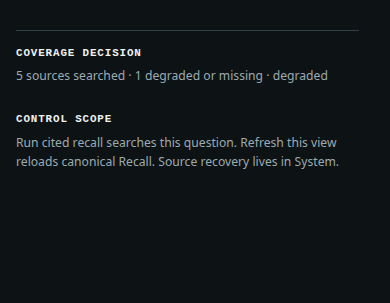
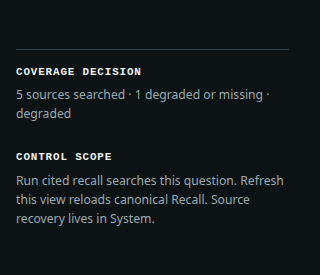
fix: close independent review blockers

diff --git a/scripts/verify_candidate.py b/scripts/verify_candidate.py
@@ -1,30 +1,147 @@
 #!/usr/bin/env python3
 from __future__ import annotations
 
+import hashlib
 import json
+import os
 from pathlib import Path
 import re
+import stat
+import struct
 import subprocess
 import sys
 
 ROOT = Path(__file__).resolve().parents[1]
-errors = []
+errors: list[str] = []
+checks: dict[str, object] = {}
 version = "0.2.0"
-if version not in (ROOT / "pyproject.toml").read_text():
-    errors.append("version mismatch")
-for required in ["README.md", "SECURITY.md", "SOURCE_PROVENANCE.json", "docs/index.md", "src/mnemoir_provenance/resources/0001_initial_schema.sql"]:
+
+
+def sha256(path: Path) -> str:
+    return hashlib.sha256(path.read_bytes()).hexdigest()
+
+
+def png_dimensions(path: Path) -> tuple[int, int] | None:
+    data = path.read_bytes()[:24]
+    if len(data) != 24 or data[:8] != b"\x89PNG\r\n\x1a\n" or data[12:16] != b"IHDR":
+        return None
+    return struct.unpack(">II", data[16:24])
+
+
+if version not in (ROOT / "pyproject.toml").read_text(encoding="utf-8"):
+    errors.append("version-mismatch")
+
+for required in [
+    "README.md",
+    "SECURITY.md",
+    "SOURCE_PROVENANCE.json",
+    "PUBLIC_FILE_MANIFEST.json",
+    "docs/index.md",
+    "src/mnemoir_provenance/resources/0001_initial_schema.sql",
+]:
     if not (ROOT / required).is_file():
         errors.append(f"missing:{required}")
+
+manifest_path = ROOT / "PUBLIC_FILE_MANIFEST.json"
+provenance_path = ROOT / "SOURCE_PROVENANCE.json"
+expected: dict[str, dict[str, object]] = {}
+if manifest_path.is_file():
+    try:
+        rows = json.loads(manifest_path.read_text(encoding="utf-8"))["files"]
+        for row in rows:
+            rel = str(row["path"])
+            if rel in expected:
+                errors.append(f"manifest-duplicate:{rel}")
+            expected[rel] = row
+        checks["manifest_entries"] = len(rows)
+    except (KeyError, TypeError, ValueError, json.JSONDecodeError) as exc:
+        errors.append(f"manifest-invalid:{exc}")
+
+for rel, row in expected.items():
+    path = ROOT / rel
+    if path.is_symlink() or not path.is_file():
+        errors.append(f"manifest-file-invalid:{rel}")
+        continue
+    if path.stat().st_size != int(row["size"]):
+        errors.append(f"manifest-size:{rel}")
+    if sha256(path) != str(row["sha256"]):
+        errors.append(f"manifest-sha256:{rel}")
+    actual_mode = f"{stat.S_IMODE(path.stat().st_mode):04o}"
+    if actual_mode != str(row["mode"]):
+        errors.append(f"manifest-mode:{rel}:{actual_mode}")
+
+allowed_envelopes = {"PUBLIC_FILE_MANIFEST.json", "SOURCE_PROVENANCE.json"}
+actual = {
+    path.relative_to(ROOT).as_posix()
+    for path in ROOT.rglob("*")
+    if ".git" not in path.relative_to(ROOT).parts and (path.is_file() or path.is_symlink())
+}
+expected_output = set(expected) | allowed_envelopes
+for rel in sorted(actual - expected_output):
+    errors.append(f"unexpected-file:{rel}")
+for rel in sorted(expected_output - actual):
+    errors.append(f"output-missing:{rel}")
+checks["output_files"] = len(actual)
+
+if provenance_path.is_file() and manifest_path.is_file():
+    try:
+        provenance = json.loads(provenance_path.read_text(encoding="utf-8"))
+        if provenance.get("public_tree_manifest_sha256") != sha256(manifest_path):
+            errors.append("provenance-public-manifest-sha256")
+        if provenance.get("version") != version:
+            errors.append("provenance-version")
+    except json.JSONDecodeError as exc:
+        errors.append(f"provenance-invalid:{exc}")
+
 for doc in ROOT.rglob("*.md"):
+    if ".git" in doc.relative_to(ROOT).parts:
+        continue
     text = doc.read_text(encoding="utf-8")
-    for target in re.findall(r"\[[^]]+\]\(([^)]+)\)", text):
-        if "://" in target or target.startswith("#"):
+    targets = re.findall(r"\[[^]]+\]\(([^)]+)\)", text)
+    targets += re.findall(r'<img[^>]+src="([^"]+)"', text)
+    for target in targets:
+        if "://" in target or target.startswith(("#", "mailto:")):
             continue
-        resolved = (doc.parent / target.split("#", 1)[0]).resolve()
-        if not resolved.exists():
+        relative = target.split("#", 1)[0]
+        if relative and not (doc.parent / relative).resolve().exists():
             errors.append(f"broken-link:{doc.relative_to(ROOT)}:{target}")
-proc = subprocess.run([sys.executable, "-m", "mnemoir_provenance.cli", "--help"], cwd=ROOT, text=True, capture_output=True)
+
+screenshot_manifest_path = ROOT / "assets/screenshots/manifest.json"
+if screenshot_manifest_path.is_file():
+    try:
+        screenshot_manifest = json.loads(screenshot_manifest_path.read_text(encoding="utf-8"))
+        for row in screenshot_manifest.get("screenshots", []):
+            rel = str(row["path"])
+            path = ROOT / rel
+            if not path.is_file() or path.is_symlink():
+                errors.append(f"screenshot-missing:{rel}")
+                continue
+            if sha256(path) != row.get("sha256"):
+                errors.append(f"screenshot-sha256:{rel}")
+            dimensions = png_dimensions(path)
+            expected_dimensions = tuple(int(value) for value in str(row["pixel_dimensions"]).split("x"))
+            if dimensions != expected_dimensions:
+                errors.append(f"screenshot-dimensions:{rel}")
+        for rel, expected_hash in screenshot_manifest.get("ui_assets", {}).items():
+            path = ROOT / rel
+            if not path.is_file() or sha256(path) != expected_hash:
+                errors.append(f"ui-asset-sha256:{rel}")
+        checks["screenshots"] = len(screenshot_manifest.get("screenshots", []))
+    except (KeyError, TypeError, ValueError, json.JSONDecodeError) as exc:
+        errors.append(f"screenshot-manifest-invalid:{exc}")
+
+env = os.environ.copy()
+env["PYTHONDONTWRITEBYTECODE"] = "1"
+env["PYTHONPATH"] = str(ROOT / "src")
+proc = subprocess.run(
+    [sys.executable, "-m", "mnemoir_provenance.cli", "--help"],
+    cwd=ROOT,
+    env=env,
+    text=True,
+    capture_output=True,
+)
 if proc.returncode != 0 or "mnemoir" not in proc.stdout.lower():
-    errors.append("cli help failed")
-print(json.dumps({"status": "ok" if not errors else "error", "errors": errors}, sort_keys=True))
+    errors.append("cli-help")
+
+print(json.dumps({"status": "ok" if not errors else "error", "errors": errors, "checks": checks}, sort_keys=True))
 raise SystemExit(0 if not errors else 1)

diff --git a/README.md b/README.md
@@ -35,14 +35,14 @@ Mnemoir keeps those questions attached to the record. Recall can include source 
 ## See cited recall
 
 <p align="center">
-  <img src="assets/screenshots/recall-citation-detail.png" width="390" alt="A Mnemoir mobile cited recall result with the complete quote, source identity, pointer, observation time, health, and eligibility">
+  <img src="assets/screenshots/recall-citation-detail.png" width="320" alt="A Mnemoir mobile cited recall result with the complete quote, source identity, pointer, observation time, health, and eligibility">
 </p>
 
 <p align="center">
-  <img src="assets/screenshots/recall-coverage-detail.png" width="390" alt="Mnemoir mobile source coverage decision showing five searched sources and one degraded or missing source">
+  <img src="assets/screenshots/recall-coverage-detail.png" width="320" alt="Mnemoir mobile source coverage decision showing five searched sources and one degraded or missing source">
 </p>
 
-*Cited recall keeps the supported statement, source pointer, eligibility, and configured-source coverage together. These width-preserving mobile crops come from the exact installed candidate wheel—not reconstructed UI.*
+*Cited recall keeps the supported statement, source pointer, eligibility, and configured-source coverage together. These native 320px crops preserve the mobile UI's evidence text without shrinking a wider screenshot.*
 
 <details>
 <summary><strong>See the complete Recall page and local workbench</strong></summary>
@@ -55,7 +55,7 @@ Mnemoir keeps those questions attached to the record. Recall can include source 
 
 </details>
 
-*Screenshots use deterministic synthetic records and contain no private profile data. The exact local verification wheel, UI assets, observed browser states, file hashes, and crop coordinates are recorded in the [screenshot manifest](assets/screenshots/manifest.json). No publication was performed.*
+*Screenshots use deterministic synthetic records and contain no private profile data. The selected image/UI hashes, dimensions, states, and crop coordinates are recorded in the [screenshot manifest](assets/screenshots/manifest.json). The full runtime capture bundle is not included in this public mirror; no publication was performed.*
 
 ## From source to recall
 

diff --git a/assets/screenshots/README.md b/assets/screenshots/README.md
@@ -1,9 +1,7 @@
 # Screenshot evidence
 
-These images were captured from an exact installed `mnemoir-provenance 0.2.0` candidate wheel over the loopback-only application. The capture harness seeded deterministic synthetic source, evidence, proposal, Council, autonomy, and service records. No private records, machine paths, profiles, credentials, or external network services were used.
+These images document Mnemoir UI states using deterministic synthetic records. No private records, machine paths, profiles, credentials, or external network services appear in the selected images.
 
-The browser run exercised 17 route/state/viewport combinations, including populated and degraded Recall at 320/390/430px, an empty recall, proposal review, confirmation, receipt/read-back, Council records, System posture, recovery, 200% zoom, and load-error retry. Successful paths admitted no unexpected browser errors or horizontal viewport overflow.
+`manifest.json` lets a reviewer verify the five selected screenshot files, their dimensions and states, the three corresponding UI assets, and the crop coordinates used for the native 320px citation and coverage details.
 
-`manifest.json` binds the exact installed wheel, UI asset hashes, fixture digest, selected screenshot hashes, observed states, source mobile capture, and crop coordinates. The two README details preserve the 390px mobile capture width so citation and coverage text remain readable on narrow layouts.
-
-The wheel was built only for local verification. No publication was performed.
+The exact wheel, complete source captures, fixture payload, Playwright harness, and browser report used during the private capture session are not shipped in this public projection. Therefore the public repository supports selected-file and UI-asset integrity checks, not independent reproduction of the runtime capture lineage. The wheel reference is informational and no publication was performed by this update.